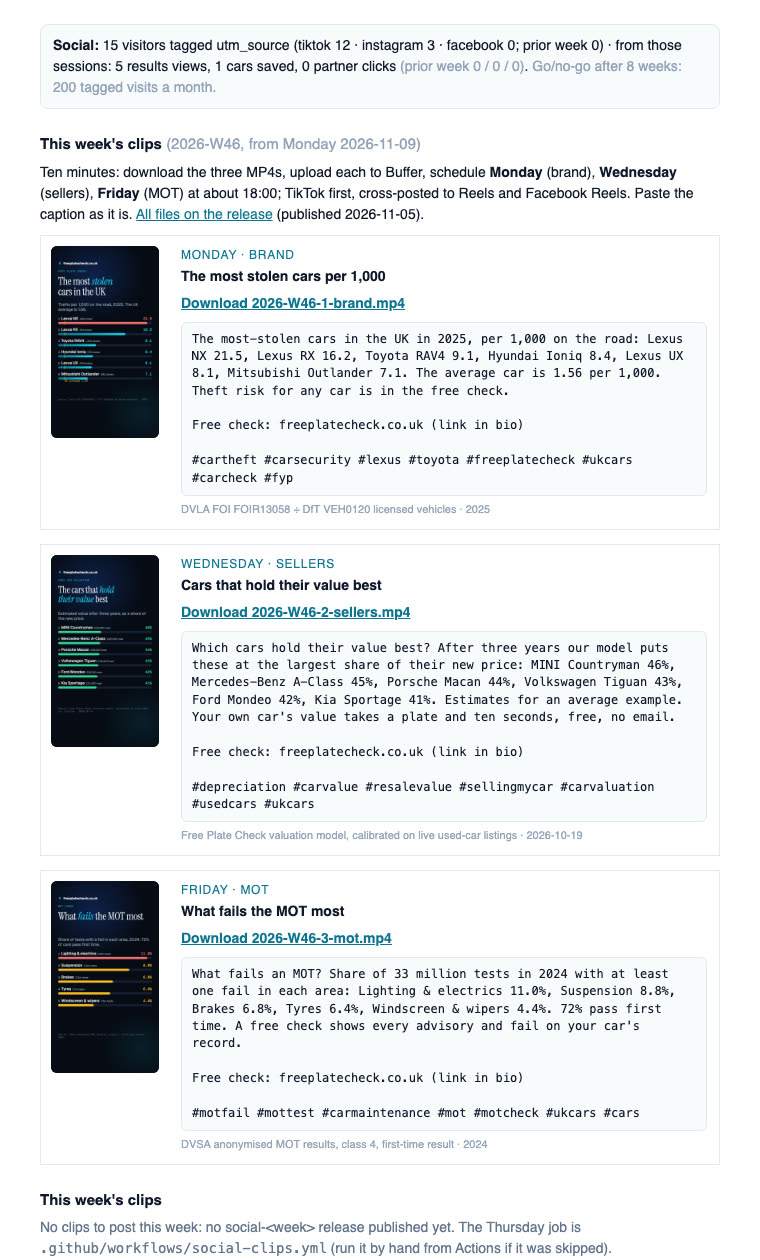
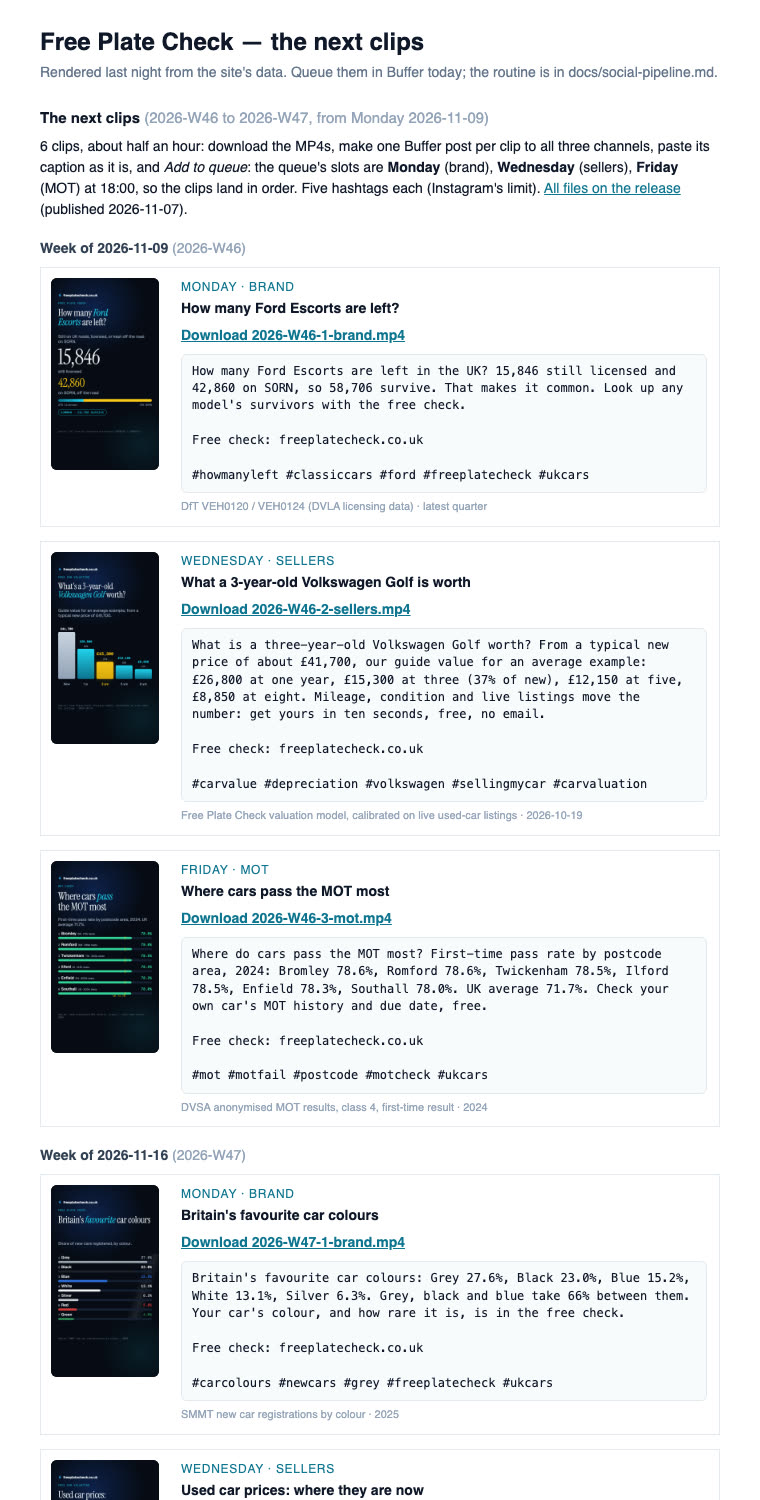
feat(social): batches of three weeks, every third Saturday and Sunday
Buffer's free plan queues ten posts per channel, so the clips go out three
weeks at a time. The Saturday workflow still fires weekly but renders only
when the coming week opens a batch (every third week from 2026-W45),
nine clips to one release; the Sunday cron emails the batch grouped by
week and stays silent on the Sundays in between (a release older than a
week has already been emailed). The doc carries the diary dates.

Changed region(s): [[0.0303, 0.0, 0.9382, 1.0], [0.7868, 0.3405, 0.8171, 0.3714]]

diff --git a/src/lib/social-clips.ts b/src/lib/social-clips.ts
@@ -1,11 +1,11 @@
 /**
- * "This week's clips": the latest `social-<ISO week>` GitHub release (made
- * by .github/workflows/social-clips.yml every Saturday night), read through
- * the public API with no token, so a missing release, a rate limit or a
- * network blip costs one line of the email and never the email itself. The
- * section goes out on its own on Sunday morning (/api/cron/social-clips, the
- * founder's cue to schedule the week in Buffer) and again inside the Friday
- * audit.
+ * "The next clips": the latest `social-<first ISO week>` GitHub release (made
+ * by .github/workflows/social-clips.yml on every third Saturday night: a
+ * batch of three weeks, nine clips), read through the public API with no
+ * token, so a missing release, a rate limit or a network blip costs one line
+ * of the email and never the email itself. The section goes out on its own
+ * on the Sunday after a batch (/api/cron/social-clips, the founder's cue to
+ * queue the batch in Buffer) and again inside the Friday audit.
  *
  * Also the "Social" traffic line: visitors who arrived with
  * utm_source=tiktok|instagram|facebook, and what those sessions went on to do.
@@ -16,6 +16,8 @@ export const SOCIAL_SOURCES = ["tiktok", "instagram", "facebook"] as const;
 export type SocialSource = (typeof SOCIAL_SOURCES)[number];
 
 export interface SocialClip {
+  /** The clip's ISO week, e.g. "2026-W46". */
+  week: string;
   file: string;
   day: string;
   date: string;
@@ -33,7 +35,10 @@ export interface SocialClip {
 }
 
 export interface SocialClipsData {
+  /** The first week on the release. */
   week: string;
+  /** Every week on the release, in order. */
+  weeks: string[];
   monday: string;
   releaseUrl: string;
   publishedAt: string;
@@ -57,9 +62,11 @@ interface Release {
 }
 interface CaptionsFile {
   week: string;
+  /** Absent on a single-week file from before batches. */
+  weeks?: string[];
   monday: string;
   schedule: string;
-  clips: Array<Omit<SocialClip, "still" | "download"> & { still: string }>;
+  clips: Array<Omit<SocialClip, "still" | "download" | "week"> & { still: string; week?: string }>;
 }
 
 export const SOCIAL_TAG = /^social-(\d{4}-W\d{2})$/;
@@ -78,11 +85,13 @@ export function clipsFromRelease(release: Release, captions: CaptionsFile): Soci
   const byName = new Map(release.assets.map((a) => [a.name, a.browser_download_url]));
   return {
     week: captions.week,
+    weeks: captions.weeks ?? [captions.week],
     monday: captions.monday,
     releaseUrl: release.html_url,
     publishedAt: (release.published_at ?? release.created_at).slice(0, 10),
     schedule: captions.schedule,
     clips: captions.clips.map((c) => ({
+      week: c.week ?? captions.week,
       file: c.file,
       day: c.day,
       date: c.date,
@@ -121,6 +130,18 @@ export async function fetchSocialClips(fetchImpl: Fetch = fetch, repo = SOCIAL_R
   } catch (err) {
     return { ok: false, note: `clips unavailable (${err instanceof Error ? err.message : String(err)})` };
   }
+}
+
+/**
+ * Was the release published in the last `days` days? The Sunday cron fires
+ * every week but a batch arrives every third week; on the other Sundays the
+ * latest release is weeks old and has already been emailed.
+ */
+export function isFreshRelease(data: SocialClipsData, now: Date, days = 6): boolean {
+  const published = Date.parse(`${data.publishedAt}T00:00:00Z`);
+  if (!Number.isFinite(published)) return false;
+  const age = (now.getTime() - published) / 864e5;
+  return age >= -1 && age <= days;
 }
 
 // ─── Social traffic ─────────────────────────────────────────────────────────
@@ -203,9 +224,8 @@ export function renderSocialClips(r: SocialClipsResult): string {
   <p style="margin:0 0 20px;font-size:14px;color:#64748b">No clips to post this week: ${esc(r.note)}. The Thursday job is <code>.github/workflows/social-clips.yml</code> (run it by hand from Actions if it was skipped).</p>`;
   }
   const d = r.data;
-  const cards = d.clips
-    .map(
-      (c) => `
+  const mondayOf = (week: string) => d.clips.find((c) => c.week === week)?.date ?? "";
+  const card = (c: SocialClip) => `
     <table style="border-collapse:collapse;width:100%;margin:0 0 14px;border:1px solid #e2e8f0;border-radius:8px">
       <tr>
         <td style="width:120px;padding:10px;vertical-align:top">${
@@ -223,19 +243,28 @@ export function renderSocialClips(r: SocialClipsResult): string {
           <div style="margin:6px 0 0;font-size:11px;color:#94a3b8">${esc(c.source)} · ${esc(c.sourceDate)}</div>
         </td>
       </tr>
-    </table>`,
-    )
+    </table>`;
+  const groups = d.weeks
+    .map((week) => {
+      const clips = d.clips.filter((c) => c.week === week);
+      if (clips.length === 0) return "";
+      return `
+    <h4 style="margin:18px 0 8px;font-size:14px;color:#334155">Week of ${esc(mondayOf(week) || week)} <span style="color:#94a3b8;font-weight:400">(${esc(week)})</span></h4>
+    ${clips.map(card).join("")}`;
+    })
     .join("");
+  const n = d.clips.length;
   return `
-  <h3 style="margin:24px 0 6px;font-size:15px">This week's clips <span style="color:#94a3b8;font-weight:400">(${esc(d.week)}, from Monday ${esc(d.monday)})</span></h3>
-  <p style="margin:0 0 10px;font-size:14px">Ten minutes: download the three MP4s, upload each to Buffer, schedule <strong>Monday</strong> (brand), <strong>Wednesday</strong> (sellers), <strong>Friday</strong> (MOT) at about 18:00; TikTok first, cross-posted to Reels and Facebook Reels. Paste the caption as it is. <a href="${esc(d.releaseUrl)}" style="color:#0e7490">All files on the release</a> (published ${esc(d.publishedAt)}).</p>
-  ${cards}`;
+  <h3 style="margin:24px 0 6px;font-size:15px">The next clips <span style="color:#94a3b8;font-weight:400">(${d.weeks.length > 1 ? `${esc(d.weeks[0])} to ${esc(d.weeks[d.weeks.length - 1])}` : esc(d.week)}, from Monday ${esc(d.monday)})</span></h3>
+  <p style="margin:0 0 10px;font-size:14px">${n} clips, ${d.weeks.length > 1 ? "about half an hour" : "ten minutes"}: download the MP4s, make one Buffer post per clip to all three channels, paste its caption as it is, and <em>Add to queue</em>: the queue's slots are <strong>Monday</strong> (brand), <strong>Wednesday</strong> (sellers), <strong>Friday</strong> (MOT) at 18:00, so the clips land in order. Five hashtags each (Instagram's limit). <a href="${esc(d.releaseUrl)}" style="color:#0e7490">All files on the release</a> (published ${esc(d.publishedAt)}).</p>
+  ${groups}`;
 }
 
 /** Subject of the Sunday email. */
 export function socialClipsSubject(r: SocialClipsResult): string {
   if (!r.ok) return "FPC clips: none this week";
   const d = r.data;
+  if (d.weeks.length > 1) return `FPC clips: ${d.clips.length} to queue for ${d.weeks.length} weeks from ${d.monday}`;
   return `FPC clips for the week of ${d.monday}: ${d.clips.map((c) => c.title).join(" · ")}`;
 }
 
@@ -243,9 +272,9 @@ export function socialClipsSubject(r: SocialClipsResult): string {
 export function renderSocialClipsEmail(r: SocialClipsResult): string {
   return `
 <div style="font-family:-apple-system,Segoe UI,Roboto,Helvetica,Arial,sans-serif;max-width:680px;margin:0 auto;color:#0f172a;line-height:1.5">
-  <h2 style="margin:0 0 2px">Free Plate Check — this week's clips</h2>
-  <p style="color:#64748b;margin:0 0 8px;font-size:14px">Rendered Saturday night from the site's data. Schedule them in Buffer today; the routine is in docs/social-pipeline.md.</p>
+  <h2 style="margin:0 0 2px">Free Plate Check — the next clips</h2>
+  <p style="color:#64748b;margin:0 0 8px;font-size:14px">Rendered last night from the site's data. Queue them in Buffer today; the routine is in docs/social-pipeline.md.</p>
   ${renderSocialClips(r)}
-  <p style="color:#94a3b8;font-size:12px;margin:28px 0 0;border-top:1px solid #e2e8f0;padding-top:12px">Sent Sundays 08:00 UTC by /api/cron/social-clips · the Friday audit carries the same section and the Social traffic line.</p>
+  <p style="color:#94a3b8;font-size:12px;margin:28px 0 0;border-top:1px solid #e2e8f0;padding-top:12px">Sent by /api/cron/social-clips on the Sunday after each batch (every third week) · the Friday audit carries the same section and the Social traffic line.</p>
 </div>`;
 }

diff --git a/scripts/test-social-clips.ts b/scripts/test-social-clips.ts
@@ -9,6 +9,7 @@
 import {
   clipsFromRelease,
   fetchSocialClips,
+  isFreshRelease,
   latestSocialRelease,
   renderSocialClips,
   renderSocialClipsEmail,
@@ -35,11 +36,13 @@ const release = {
 };
 const captions = {
   week: "2026-W46",
+  weeks: ["2026-W46", "2026-W47"],
   monday: "2026-11-09",
   schedule: "Buffer: Monday (brand), Wednesday (sellers), Friday (MOT).",
   clips: [
-    { file: "2026-W46-1-brand.mp4", still: "2026-W46-1-brand.png", day: "Monday", date: "2026-11-09", audience: "brand", topic: "theft", title: "The most stolen cars per 1,000", headline: "The most stolen cars in the UK", caption: "Lexus NX 21.5 <per 1,000> & more\n\n#cartheft", source: "DVLA FOI", sourceDate: "2025" },
-    { file: "2026-W46-2-sellers.mp4", still: "2026-W46-2-sellers.png", day: "Wednesday", date: "2026-11-11", audience: "sellers", topic: "value-table", title: "Cars that hold their value best", headline: "The cars that hold their value best", caption: "MINI Countryman 46%", source: "model", sourceDate: "2026-10-19" },
+    { week: "2026-W46", file: "2026-W46-1-brand.mp4", still: "2026-W46-1-brand.png", day: "Monday", date: "2026-11-09", audience: "brand", topic: "theft", title: "The most stolen cars per 1,000", headline: "The most stolen cars in the UK", caption: "Lexus NX 21.5 <per 1,000> & more\n\n#cartheft", source: "DVLA FOI", sourceDate: "2025" },
+    { week: "2026-W46", file: "2026-W46-2-sellers.mp4", still: "2026-W46-2-sellers.png", day: "Wednesday", date: "2026-11-11", audience: "sellers", topic: "value-table", title: "Cars that hold their value best", headline: "The cars that hold their value best", caption: "MINI Countryman 46%", source: "model", sourceDate: "2026-10-19" },
+    { week: "2026-W47", file: "2026-W47-1-brand.mp4", still: "2026-W47-1-brand.png", day: "Monday", date: "2026-11-16", audience: "brand", topic: "colours", title: "Britain's favourite car colours", headline: "Britain's favourite car colours", caption: "Grey 27.6%", source: "SMMT", sourceDate: "2025" },
   ],
 };
 
@@ -54,13 +57,18 @@ check("no release → null", latestSocialRelease([{ ...release, tag_name: "data-
 
 console.log("joining assets to captions");
 const data = clipsFromRelease(release, captions);
-check("week and release url carried over", data.week === "2026-W46" && data.releaseUrl === release.html_url && data.publishedAt === "2026-11-05");
+check("week, weeks and release url carried over", data.week === "2026-W46" && data.weeks.join() === "2026-W46,2026-W47" && data.releaseUrl === release.html_url && data.publishedAt === "2026-11-05");
+check("each clip keeps its week", data.clips.map((c) => c.week).join() === "2026-W46,2026-W46,2026-W47");
+const single = clipsFromRelease(release, { ...captions, weeks: undefined, clips: captions.clips.slice(0, 2).map(({ week: _w, ...c }) => c) });
+check("a single-week file from before batches still parses", single.weeks.join() === "2026-W46" && single.clips.every((c) => c.week === "2026-W46"));
 check("still and download resolve to the release assets", data.clips[0].still?.endsWith("1-brand.png") === true && data.clips[0].download?.endsWith("1-brand.mp4") === true);
 check("a missing asset is null, not a broken link", data.clips[1].still === null && data.clips[1].download === null);
 
 console.log("html");
 const html = renderSocialClips({ ok: true, data });
-check("lists every clip with its day, audience and title", html.includes("Monday · brand") && html.includes("Wednesday · sellers") && html.includes("Cars that hold their value best"));
+check("lists every clip with its day, audience and title", html.includes("Monday · brand") && html.includes("Wednesday · sellers") && html.includes("Cars that hold their value best") && html.includes("Britain's favourite car colours"));
+check("clips are grouped under their week's Monday", /Week of 2026-11-09.*Week of 2026-11-16/s.test(html) && html.indexOf("Cars that hold their value best") < html.indexOf("Week of 2026-11-16"));
+check("the heading spans the batch", html.includes("2026-W46 to 2026-W47") && html.includes("3 clips"));
 check("the still is an img, the download a link", html.includes('<img src="https://github.com/x/y/releases/download/social-2026-W46/2026-W46-1-brand.png"') && html.includes('href="https://github.com/x/y/releases/download/social-2026-W46/2026-W46-1-brand.mp4"'));
 check("the caption is in a copyable block, escaped", html.includes("<pre") && html.includes("&lt;per 1,000&gt; &amp; more") && !html.includes("<per 1,000>"));
 check("the Buffer schedule reminder is there", /Monday<\/strong> \(brand\).*Wednesday<\/strong> \(sellers\).*Friday<\/strong> \(MOT\)/s.test(html));
@@ -78,7 +86,7 @@ const fetchOk = (async (url: string | URL | Request) => {
   return mk(404, {});
 }) as unknown as typeof fetch;
 const good = await fetchSocialClips(fetchOk, "x/y");
-check("fetches the release list and captions.json", good.ok && good.data.clips.length === 2 && good.data.week === "2026-W46");
+check("fetches the release list and captions.json", good.ok && good.data.clips.length === 3 && good.data.week === "2026-W46");
 const rateLimited = await fetchSocialClips((async () => mk(403, {})) as unknown as typeof fetch, "x/y");
 check("403 → ok:false with the status", !rateLimited.ok && rateLimited.note.includes("403"));
 const noRelease = await fetchSocialClips((async () => mk(200, [])) as unknown as typeof fetch, "x/y");
@@ -88,10 +96,12 @@ check("a thrown fetch → ok:false, never a throw", !network.ok && network.note.
 }
 
 console.log("sunday email");
-check("subject names the Monday and the three titles", socialClipsSubject({ ok: true, data }) === "FPC clips for the week of 2026-11-09: The most stolen cars per 1,000 · Cars that hold their value best");
+check("a batch subject counts the clips and weeks", socialClipsSubject({ ok: true, data }) === "FPC clips: 3 to queue for 2 weeks from 2026-11-09");
+check("a single-week subject names the titles", socialClipsSubject({ ok: true, data: single }) === "FPC clips for the week of 2026-11-09: The most stolen cars per 1,000 · Cars that hold their value best");
+check("a release from last night is fresh, one from three weeks ago is not", isFreshRelease(data, new Date("2026-11-08T08:00:00Z")) && !isFreshRelease(data, new Date("2026-11-29T08:00:00Z")));
 check("subject when there is nothing to post", socialClipsSubject({ ok: false, note: "x" }) === "FPC clips: none this week");
 const mail = renderSocialClipsEmail({ ok: true, data });
-check("the email wraps the same section and says when it was sent", mail.includes("this week's clips") && mail.includes("Download 2026-W46-1-brand.mp4") && mail.includes("Sundays 08:00 UTC"));
+check("the email wraps the same section and says when it is sent", mail.includes("the next clips") && mail.includes("Download 2026-W46-1-brand.mp4") && mail.includes("every third week"));
 
 console.log("social traffic");
 const row = (utm: string | undefined, ip: string | null, t = "2026-11-10T10:00:00Z") => ({ metadata: utm ? { utm_source: utm, path: "/" } : { path: "/" }, ip_hash: ip, created_at: t });

diff --git a/src/app/api/cron/social-clips/route.ts b/src/app/api/cron/social-clips/route.ts
@@ -3,12 +3,15 @@ export const maxDuration = 30;
 
 import { NextResponse } from "next/server";
 import { sendInternalEmail } from "@/lib/resend";
-import { fetchSocialClips, renderSocialClipsEmail, socialClipsSubject } from "@/lib/social-clips";
+import { fetchSocialClips, isFreshRelease, renderSocialClipsEmail, socialClipsSubject } from "@/lib/social-clips";
 
-// Sunday 08:00 UTC (vercel.json): the week's three clips, with captions and
-// download links, so they can be scheduled in Buffer before Monday's post.
-// The clips themselves come from Saturday night's social-clips.yml run; if
-// it did not run, the email says so in one line and still goes out.
+// Sundays 08:00 UTC (vercel.json): the next batch of clips, with captions and
+// download links, so they can be queued in Buffer before Monday's post. The
+// clips come from Saturday night's social-clips.yml run, which renders every
+// third week; on the Sundays in between the latest release is weeks old and
+// already emailed, so nothing is sent. A batch Saturday that failed to render
+// leaves the stale release too, so that case is also silent here: the Friday
+// audit's section and the Actions tab show it.
 const RECIPIENT = process.env.AUDIT_EMAIL || "stephengaisford@gmail.com";
 
 export async function GET(req: Request) {
@@ -20,6 +23,9 @@ export async function GET(req: Request) {
 
   try {
     const clips = await fetchSocialClips();
+    if (clips.ok && !isFreshRelease(clips.data, new Date())) {
+      return NextResponse.json({ ok: true, skipped: `latest release ${clips.data.week} was published ${clips.data.publishedAt}; not a batch Sunday` });
+    }
     const res = await sendInternalEmail({ to: RECIPIENT, subject: socialClipsSubject(clips), html: renderSocialClipsEmail(clips) });
     if (!res.ok) {
       return NextResponse.json({ ok: false, error: res.error }, { status: 502 });

diff --git a/docs/social-pipeline.md b/docs/social-pipeline.md
@@ -1,43 +1,52 @@
-# Social clips: the weekly pipeline
+# Social clips: the three-weekly pipeline
 
-Three short vertical clips a week, made from the site's own data, posted by
-hand through Buffer. An eight-week, no-voice, zero-spend trial from the week
-of 2 November 2026 (ISO week 2026-W45). Nothing posts automatically: TikTok's
-API posts privately until an account is audited, so the clips go through
-Buffer's free plan (three channels, ten queued posts each).
+Three short vertical clips a week, made from the site's own data, posted
+through Buffer, queued three weeks at a time. An eight-week, no-voice,
+zero-spend trial from the week of 2 November 2026 (ISO week 2026-W45).
+Nothing posts automatically from this repository: TikTok's API posts
+privately until an account is audited, so the clips go through Buffer's free
+plan (three channels, ten queued posts each), which is also why the batch is
+three weeks: nine posts per channel, queued on a Sunday when the previous
+batch has all gone out.
 
 The earlier hand-made reels and their account sheets live in `docs/social/`
 (HTML reels with a record button, the brand guide, a two-week calendar).
-This pipeline replaces that cadence with an automatic weekly one; the account
+This pipeline replaces that cadence with an automatic one; the account
 sheets there (`tiktok-account-setup.txt`, `instagram-account-setup.txt`)
 still hold the handle, bio text and profile image.
 
-## The weekly routine (Sunday, about ten minutes)
+## The routine: every third Sunday, about half an hour
 
-1. **Saturday 22:00 UTC** the `Social Clips` workflow renders next week's
-   three clips and publishes them as a GitHub release tagged `social-<week>`
-   (for example `social-2026-W46`): three MP4s, three poster PNGs and
-   `captions.json`.
-2. **Sunday 08:00 UTC** a "this week's clips" email arrives
-   (`/api/cron/social-clips`): each clip's poster, audience, a download link
-   and its caption in a copyable block. The Friday audit carries the same
-   section and the Social traffic line.
-3. Download the three MP4s from the email's links.
-4. In Buffer, create a post per clip: upload the MP4, paste the caption as it
-   is, pick the channels (TikTok, Instagram, Facebook), and schedule:
-   - **Monday** at about 18:00: the brand clip (search / data story),
-   - **Wednesday** at about 18:00: the sellers clip (valuation),
-   - **Friday** at about 18:00: the MOT clip.
-5. Done. The captions already end with `freeplatecheck.co.uk` and the
-   hashtags; the clickable links live in the Instagram and Facebook profiles
-   (below). On TikTok the domain is typed, not tapped.
+Diary: **Sunday 22 November 2026**, then every third Sunday (13 December,
+3 January 2027, 24 January, 14 February, 7 March, 28 March, …). The first
+batch (2 to 20 November) was queued by hand on 1 November.
 
-If the email says "No clips to post this week", open the repository's
-Actions tab, run **Social Clips** by hand (`Run workflow`, leave `week`
-blank), and the release appears a few minutes later; `captions.json` on the
-release has the captions. The first week (2 to 6 November) was rendered by
-hand before the workflow existed: its clips are on the draft release
-`social-preview`.
+1. **The Saturday before, 22:00 UTC**, the `Social Clips` workflow renders
+   the next three weeks' nine clips and publishes them as a GitHub release
+   tagged `social-<first week>` (for example `social-2026-W48`): nine MP4s,
+   nine poster PNGs and one `captions.json`. On the other two Saturdays it
+   checks the calendar and stops.
+2. **Sunday 08:00 UTC** a "the next clips" email arrives
+   (`/api/cron/social-clips`): the nine clips grouped by week, each with its
+   poster, a download link and its caption in a copyable block. On the other
+   Sundays nothing is sent. The Friday audit always carries the same section
+   and the Social traffic line.
+3. Download the nine MP4s from the email's links.
+4. In Buffer, for each clip in the email's order: **New → Post**, select all
+   three channels, drop in the MP4, paste the caption as it is, and **Add to
+   Queue**. The channels' slots are Monday, Wednesday and Friday at 18:00, so
+   the clips fall into place in order: brand on Mondays, sellers on
+   Wednesdays, MOT on Fridays. Check the day shown before confirming each.
+5. Done. The captions end with `freeplatecheck.co.uk` and five hashtags
+   (Instagram's limit); the clickable links live in the Instagram and
+   Facebook profiles (below). On TikTok the domain is typed, not tapped.
+
+If a batch Sunday brings no email, open the repository's Actions tab, run
+**Social Clips** by hand with `week` set to the batch's first week (the
+calendar's batch starts are 2026-W48, W51, 2027-W01, W04, …; `npm run
+social:plan -- --weeks 12` lists what each week holds), and the release
+appears in about a quarter of an hour; `captions.json` on it has the
+captions.
 
 ## One-time setup
 
@@ -62,6 +71,10 @@ Website field clickable. Set it to the UTM link below. Handle and bio text:
 
 **Facebook Page.** Put the UTM link in the page's Website field and in the
 About text.
+
+**Buffer queue slots.** Each channel's Posting Schedule: Monday, Wednesday
+and Friday at 18:00 London, every other day off, goal 3. With the slots set,
+"Add to Queue" is the whole scheduling step.
 
 **Bio links** (one per platform, so the audit can tell them apart):
 
@@ -91,7 +104,8 @@ three** hold:
 
 Fewer than two: stop the Buffer routine (the Saturday job can keep running
 harmlessly, or be disabled in Actions) and keep the renderer for one-off
-clips.
+clips. The review falls between batches: the 3 January batch is already
+queued by then, so the decision takes effect from the 24 January one.
 
 ## How it works
 
@@ -101,15 +115,17 @@ clips.
   deterministically and walks each topic's subject list before repeating, so
   nothing repeats for months. `npm run social:plan -- --weeks 12` prints what
   is coming; `npm run social:preview` opens Remotion Studio.
-- `.github/workflows/social-clips.yml` installs the renderer, renders the
-  three clips (capped at ten minutes) and publishes the release on Saturday
-  night. Re-running it for the same week replaces the release's assets with
-  identical clips.
+- `.github/workflows/social-clips.yml` runs every Saturday night, asks the
+  calendar whether the coming week opens a batch (`npm run batch` in
+  `social/`), and if so installs the renderer, renders the nine clips
+  (capped at 25 minutes) and publishes the release. Re-running it for the
+  same batch replaces the release's assets with identical clips.
 - `src/lib/social-clips.ts` reads the latest `social-*` release through the
   public GitHub API (no token) for the Sunday email
-  (`src/app/api/cron/social-clips/route.ts`, a Vercel cron at 08:00 UTC)
-  and for the Friday audit, and fails soft to a one-line note if the API or
-  the release is unavailable.
+  (`src/app/api/cron/social-clips/route.ts`, a Vercel cron at 08:00 UTC that
+  only sends when the release is less than a week old) and for the Friday
+  audit, and fails soft to a one-line note if the API or the release is
+  unavailable.
 - Rules baked in: never a real registration (the closing card shows a sample
   plate), aggregate figures only, no partner names or offers in any clip or
   caption. `npm run social:check` runs the calendar test that enforces the

diff --git a/CLAUDE.md b/CLAUDE.md
@@ -71,9 +71,9 @@ for the component side, minus the now-removed variant branching.
 
 A Remotion project with its own install, outside the Next build and the root
 `tsc`; root ESLint lints `social/src`. `npm run social:check` runs its
-typecheck and calendar test. The Saturday-night workflow
-(`.github/workflows/social-clips.yml`) renders three clips a week to a
-`social-<ISO week>` release; a Sunday cron emails them
+typecheck and calendar test. Every third Saturday night the workflow
+(`.github/workflows/social-clips.yml`) renders a three-week batch of nine
+clips to a `social-<first ISO week>` release; the Sunday cron emails them
 (`/api/cron/social-clips`) and the Friday audit lists them too
 (`src/lib/social-clips.ts`). Routine, setup and go/no-go line:
 `docs/social-pipeline.md`. Never a real registration or a partner name in a
